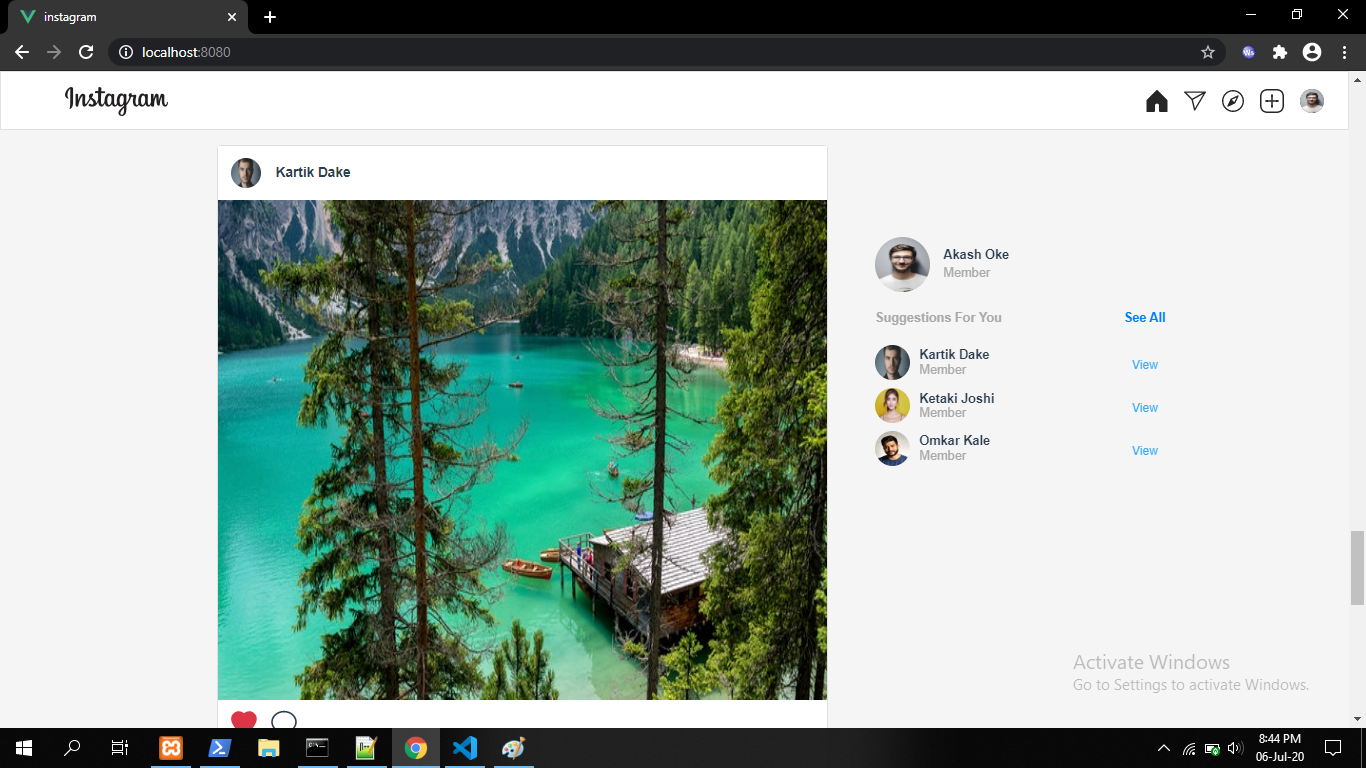
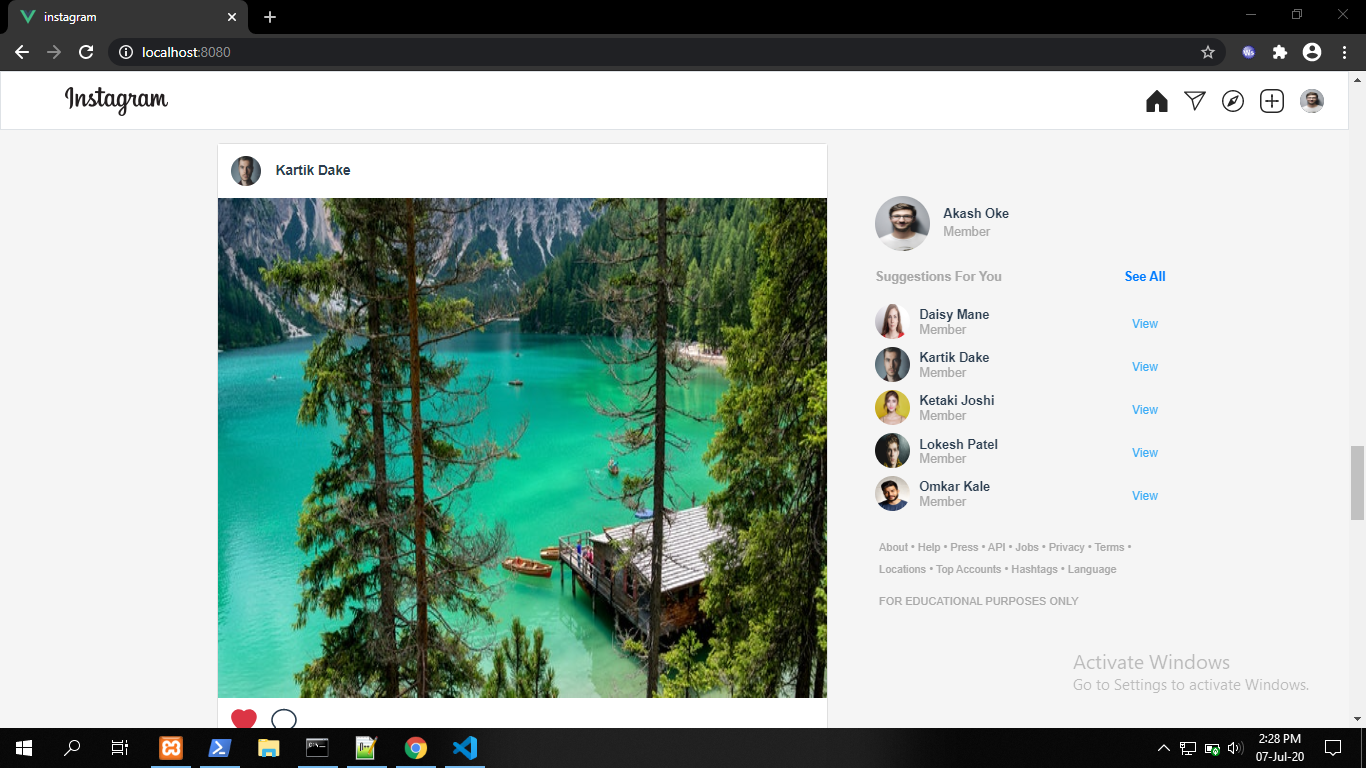
add

diff --git a/src/components/Suggestions.vue b/src/components/Suggestions.vue
@@ -6,24 +6,32 @@
             <p id="custom_user_name">{{this.$store.state.user.name}}</p>      
             <span id="custom_user_role" class="custom_faded_color">{{this.$store.state.user.role}}</span>
         </span>
-            <b-row style="margin-top: 1%;">
-                <b-col cols="3">
-                    <span class="custom_faded_color custom_personal_suggestion custom_font_size" >Suggestions For You</span>
-                </b-col>
-                <b-col cols="1">
-                    <router-link to="\explore">
-                        <span class="custom_personal_suggestion custom_font_size" style="margin-left: -110%;">See All</span>
-                    </router-link>     
-                </b-col>
-            </b-row>
-            <div style="margin-top: 0.7%; ">
-                <div v-for="(user, index) in users" :key="index" >
-                    <UserSuggestions :user="user" :index="index" v-on:navigate-to-user="navigateToUser" />  
-                </div>   
-            </div>
-
-
-
+        <b-row style="margin-top: 1%;">
+            <b-col cols="3">
+                <span class="custom_faded_color custom_personal_suggestion custom_font_size" >Suggestions For You</span>
+            </b-col>
+            <b-col cols="1">
+                <router-link to="\explore">
+                    <span class="custom_personal_suggestion custom_font_size" style="margin-left: -110%;">See All</span>
+                </router-link>     
+            </b-col>
+        </b-row>
+        <div style="margin-top: 0.7%; ">
+            <div v-for="(user, index) in users" :key="index" >
+                <UserSuggestions :user="user" :index="index" v-on:navigate-to-user="navigateToUser" />  
+            </div>   
+        </div>
+        <div class="custom_faded_color custom_extras extras_font_size">
+            <ul>
+                <li>About &bull;</li> <li>Help &bull;</li> <li>Press &bull;</li> <li>API &bull;</li> <li>Jobs &bull;</li> <li>Privacy &bull;</li> <li>Terms &bull;</li>
+            </ul>     
+            <ul style="margin-top: -1%;">   
+                 <li>Locations &bull;</li>  <li>Top Accounts &bull;</li> <li>Hashtags &bull;</li>  <li>Language</li>     
+            </ul>
+        </div>
+        <div style="margin-left: 0.3%;" class="custom_faded_color extras_font_size">
+            FOR EDUCATIONAL PURPOSES ONLY
+        </div>     
 
 
    </div>      
@@ -78,6 +86,17 @@
 </script>
 
 <style scoped>
+    li{
+    display:inline;
+}
+    .custom_extras  {
+        margin: 2% 0% 0% -2.7%;
+        
+        width: 80%;
+    }
+    .extras_font_size   {
+        font-size: 11px;
+    }
     #custom_user_photo_side {
           /* width: 10%;
         height: 95%; */
@@ -86,7 +105,7 @@
         margin: -1.3% 1% 0% 0%;
     }  
     #custom_suggestion  {
-        padding: 8% 0% 0% 1.25%;
+        padding: 5% 0% 0% 1.25%;
         text-align: left;
         float: left;
     }

diff --git a/src/components/UserSuggestions.vue b/src/components/UserSuggestions.vue
@@ -15,6 +15,7 @@
                 <span v-on:click="navigateToUser" class="custom_secondary_color" id="custom_view">View</span>
             </b-col>
         </b-row>
+        
     </div>
 </template>
          
